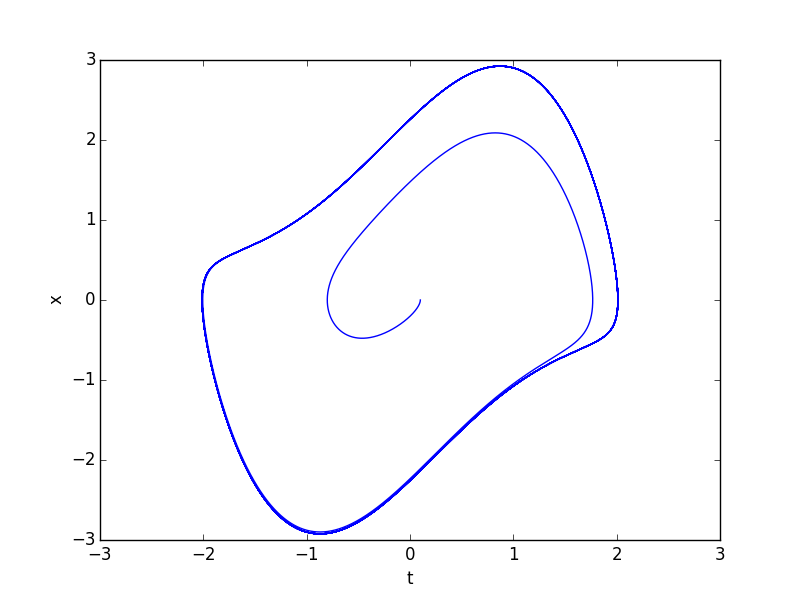
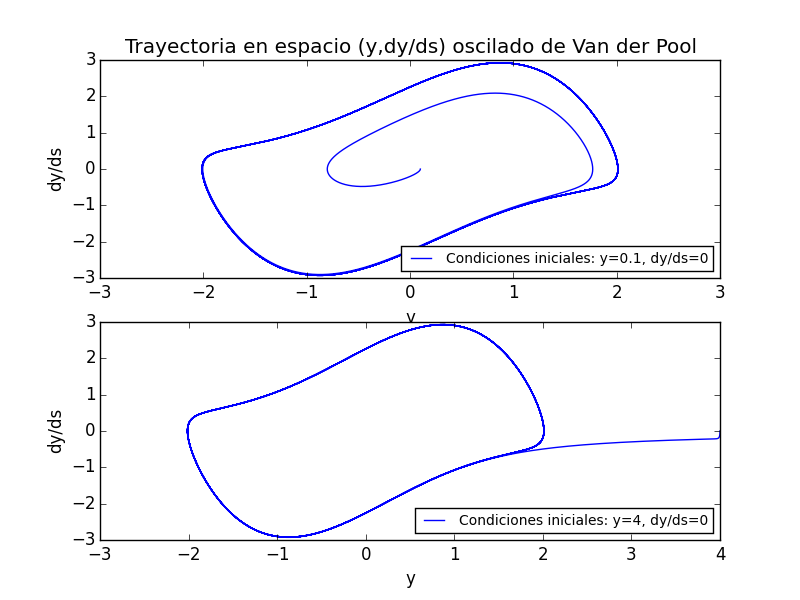
se agregan labels a graficos

diff --git a/tarea3.py b/tarea3.py
@@ -2,14 +2,6 @@ import numpy as np
 import matplotlib.pyplot as plt
 
 
-fig = plt.figure(1)
-fig.clf()
-
-ax1 = fig.add_subplot(111)
-ax1.set_xlabel('x')
-ax1.set_ylabel('v')
-
-
 K=1.232  #rut 18769232-6
 
 def f_a_integrar(x,v,k=K):
@@ -42,19 +34,65 @@ def rk3_step(xn,vn,h,f_a_integrar):
 
 N_steps = np.int(1e5)
 h=20*np.pi/N_steps
-x= np.zeros(N_steps)
-v= np.zeros(N_steps)
+x1= np.zeros(N_steps)
+v1= np.zeros(N_steps)
+x2= np.zeros(N_steps)
+v2= np.zeros(N_steps)
+t=np.linspace(0,20*np.pi,N_steps)
 
-x[0]= 0.1
-v[0]= 0
+fig = plt.figure(1)
+fig.clf()
 
+ax1 = fig.add_subplot(211)
+ax1.set_xlabel('y')
+ax1.set_ylabel('dy/ds')
+ax1.set_xlim(-3,4)
+plt.title("Trayectoria en espacio (y,dy/ds) oscilado de Van der Pool")
+
+#primeras condiciones iniciales
+x1[0]= 0.1
+v1[0]= 0
 for i in range (1, N_steps):
-    x_new, v_new = rk3_step(x[i-1],v[i-1],h,f_a_integrar)
-    x[i]= x_new
-    v[i]= v_new
+    x_new, v_new = rk3_step(x1[i-1],v1[i-1],h,f_a_integrar)
+    x1[i]= x_new
+    v1[i]= v_new
+ax1.plot(x1,v1, label="Condiciones iniciales: y=0.1, dy/ds=0", color='r')
+plt.legend(loc='lower right', fontsize=10)
 
-ax1.plot(x,v)
+ax2 = fig.add_subplot(212)
+ax2.set_xlabel('y')
+ax2.set_ylabel('dy/ds')
+
+#segundas condiciones iniciales
+x2[0]= 4
+v2[0]= 0
+for i in range (1, N_steps):
+    x_new, v_new = rk3_step(x2[i-1],v2[i-1],h,f_a_integrar)
+    x2[i]= x_new
+    v2[i]= v_new
+ax2.plot(x2,v2, label="Condiciones iniciales: y=4, dy/ds=0")
+
+plt.legend(loc='lower right', fontsize=10)
+plt.draw()
+plt.savefig('figura1.1.png')
+plt.show()
+
+####
+fig = plt.figure(2)
+fig.clf()
+ax3=fig.add_subplot(211)
+plt.title("y(s) para condiciones iniciales: y=0.1 , dy/ds=0")
+plt.plot(t,x1,color='r')
+ax3.set_ylabel('y(s)')
+ax3.set_ylim(-4,4)
+
+ax4=fig.add_subplot(212)
+plt.title("y(s) para condiciones iniciales: y=4 , dy/ds=0")
+plt.plot(t,x2)
+ax4.set_xlabel('s')
+ax4.set_ylabel('y(s)')
+
 
 plt.draw()
-plt.savefig('figura1.png')
+plt.savefig('figura1.2.png')
 plt.show()
